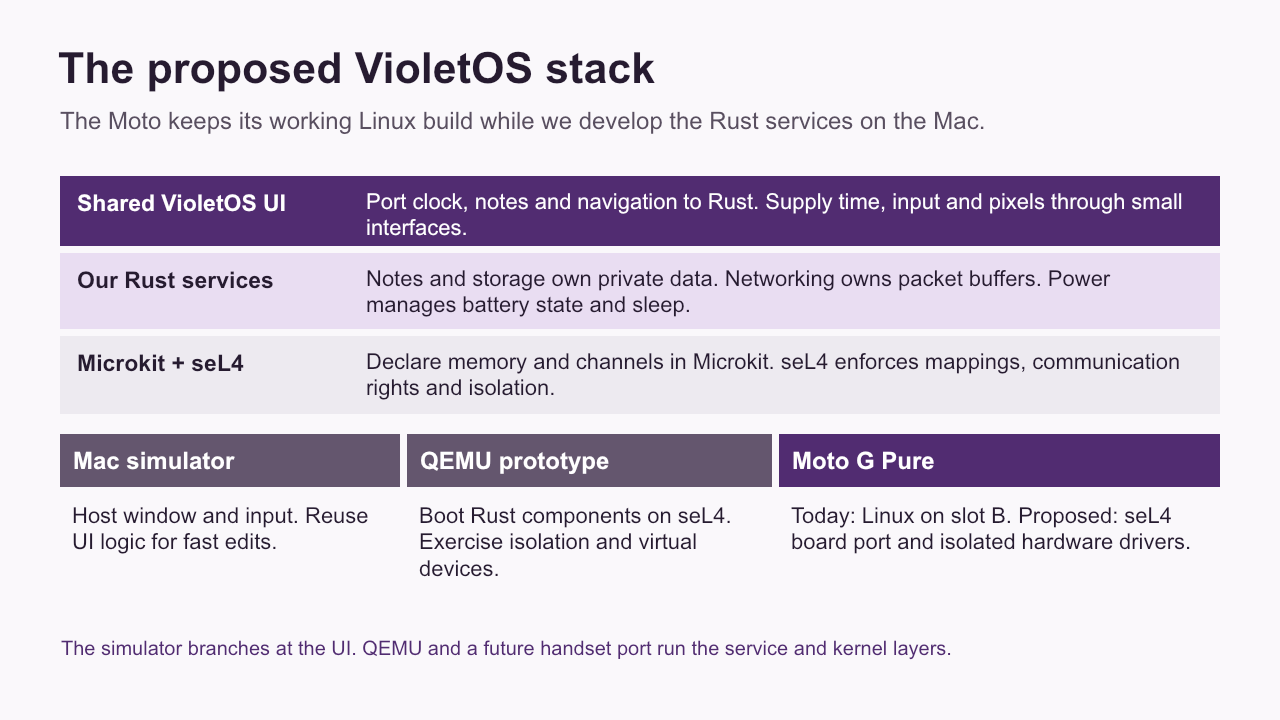
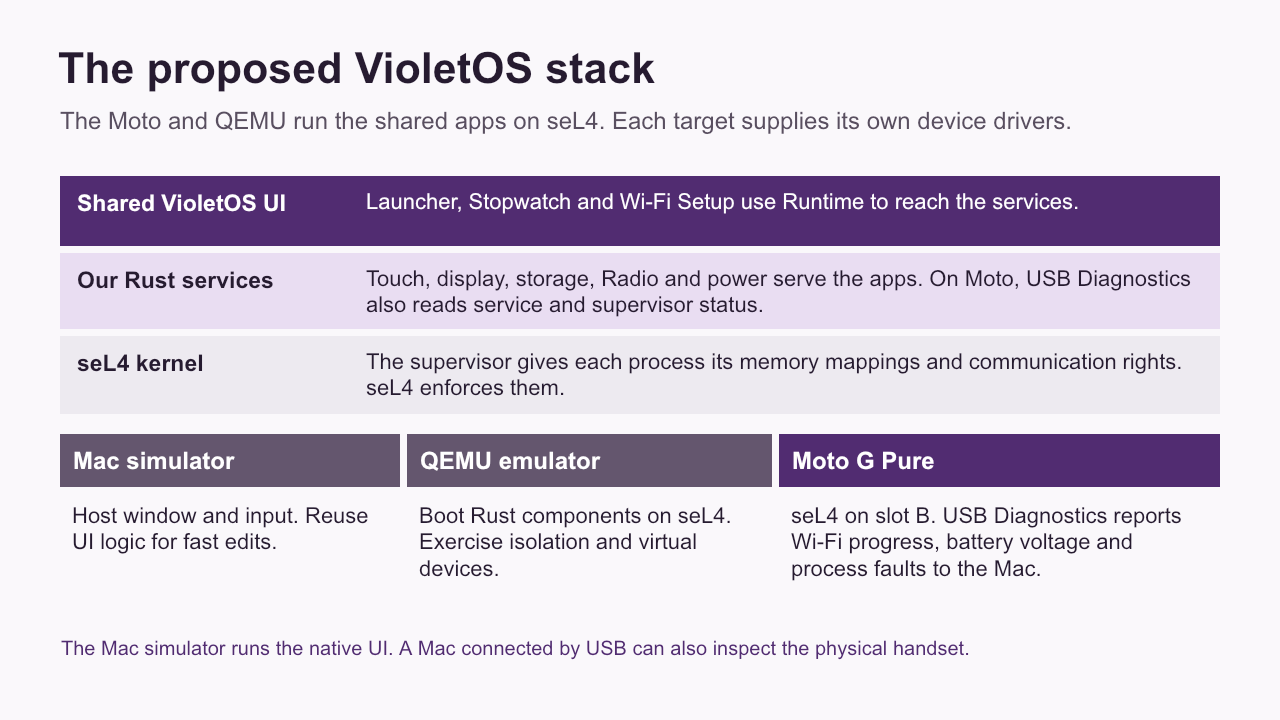
Show Moto USB diagnostics and boot history in the layer cake

diff --git a/README.md b/README.md
@@ -47,7 +47,7 @@ These three design-review slides describe the planned architecture. The componen
 
 ![Proposed VioletOS processes, services, kernel, boot and recovery components across the three environments.](docs/violetos-complete-lifecycle-stack.png)
 
-![One directory and README for each of the 17 architecture boxes.](docs/violetos-folders-layer-cake.png)
+![Component directories, the Moto USB Diagnostics process and the Mac diagnostic tools.](docs/violetos-folders-layer-cake.png)
 
 ![Proposed Subscribe, Get and Execute operations and independent component update rules.](docs/violetos-runtime-contract-updates.png)
 
